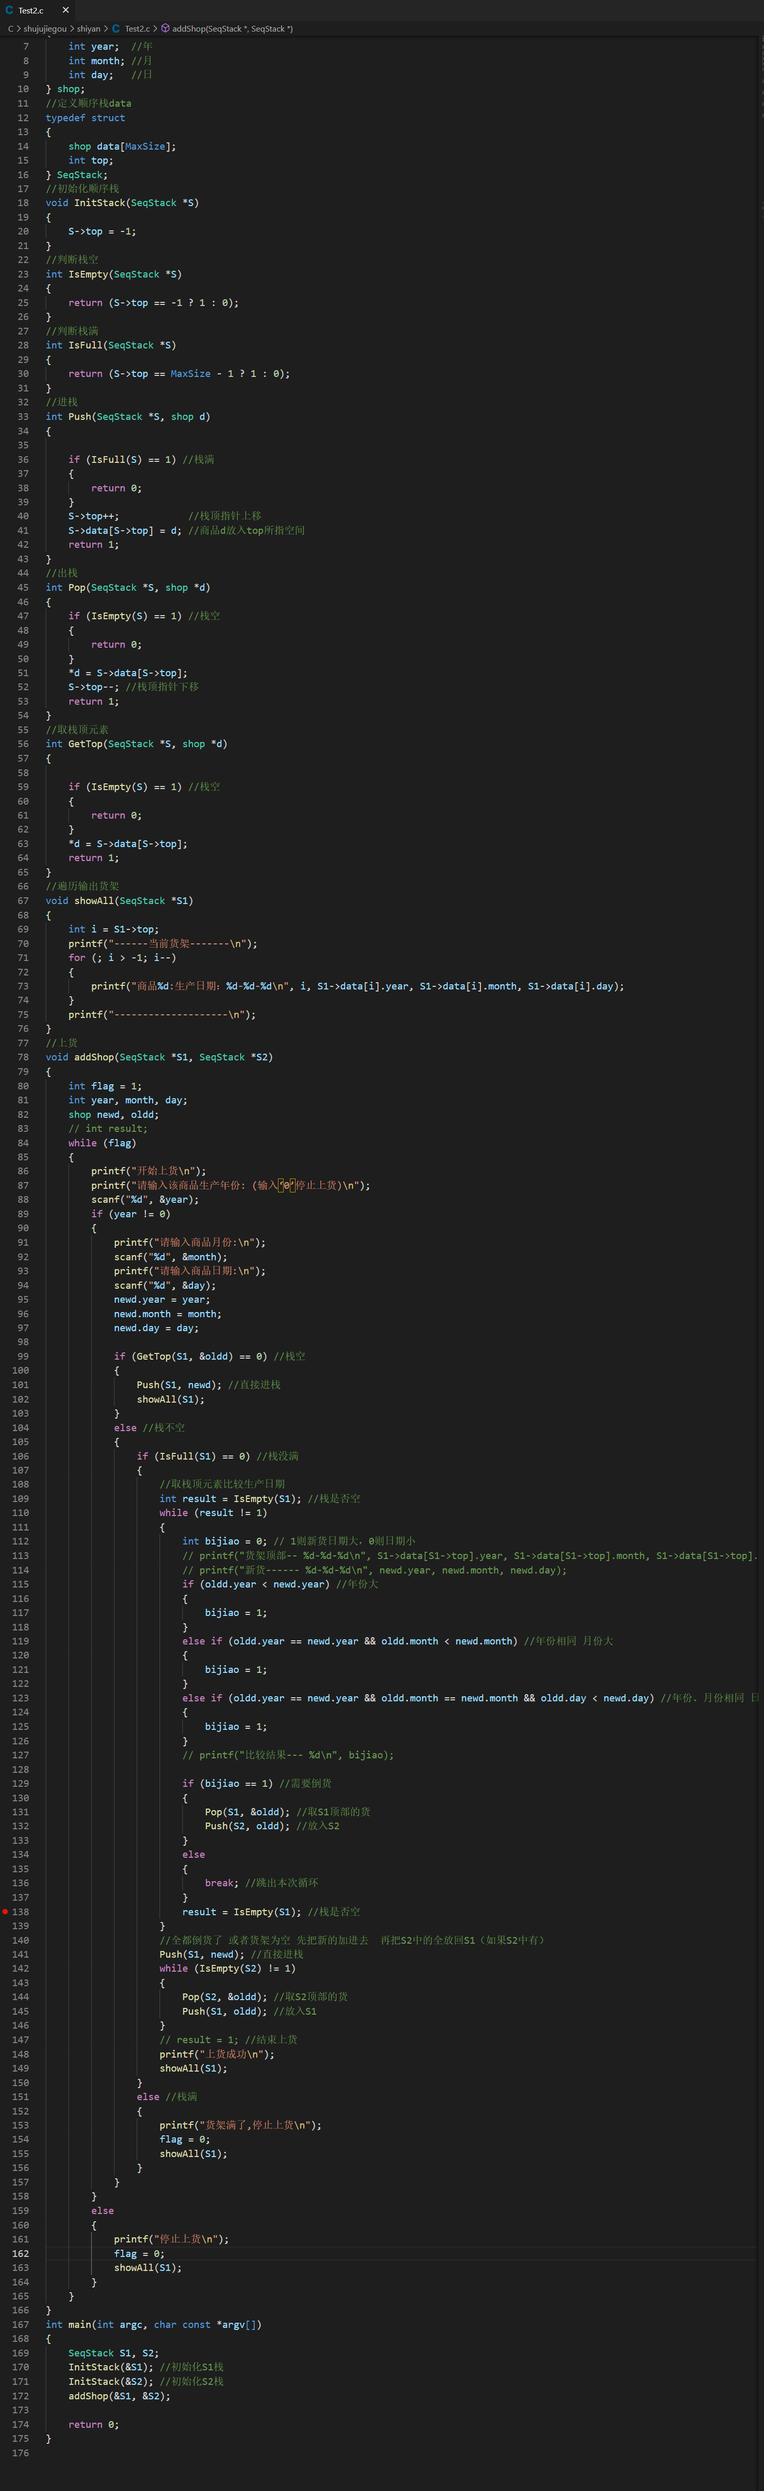
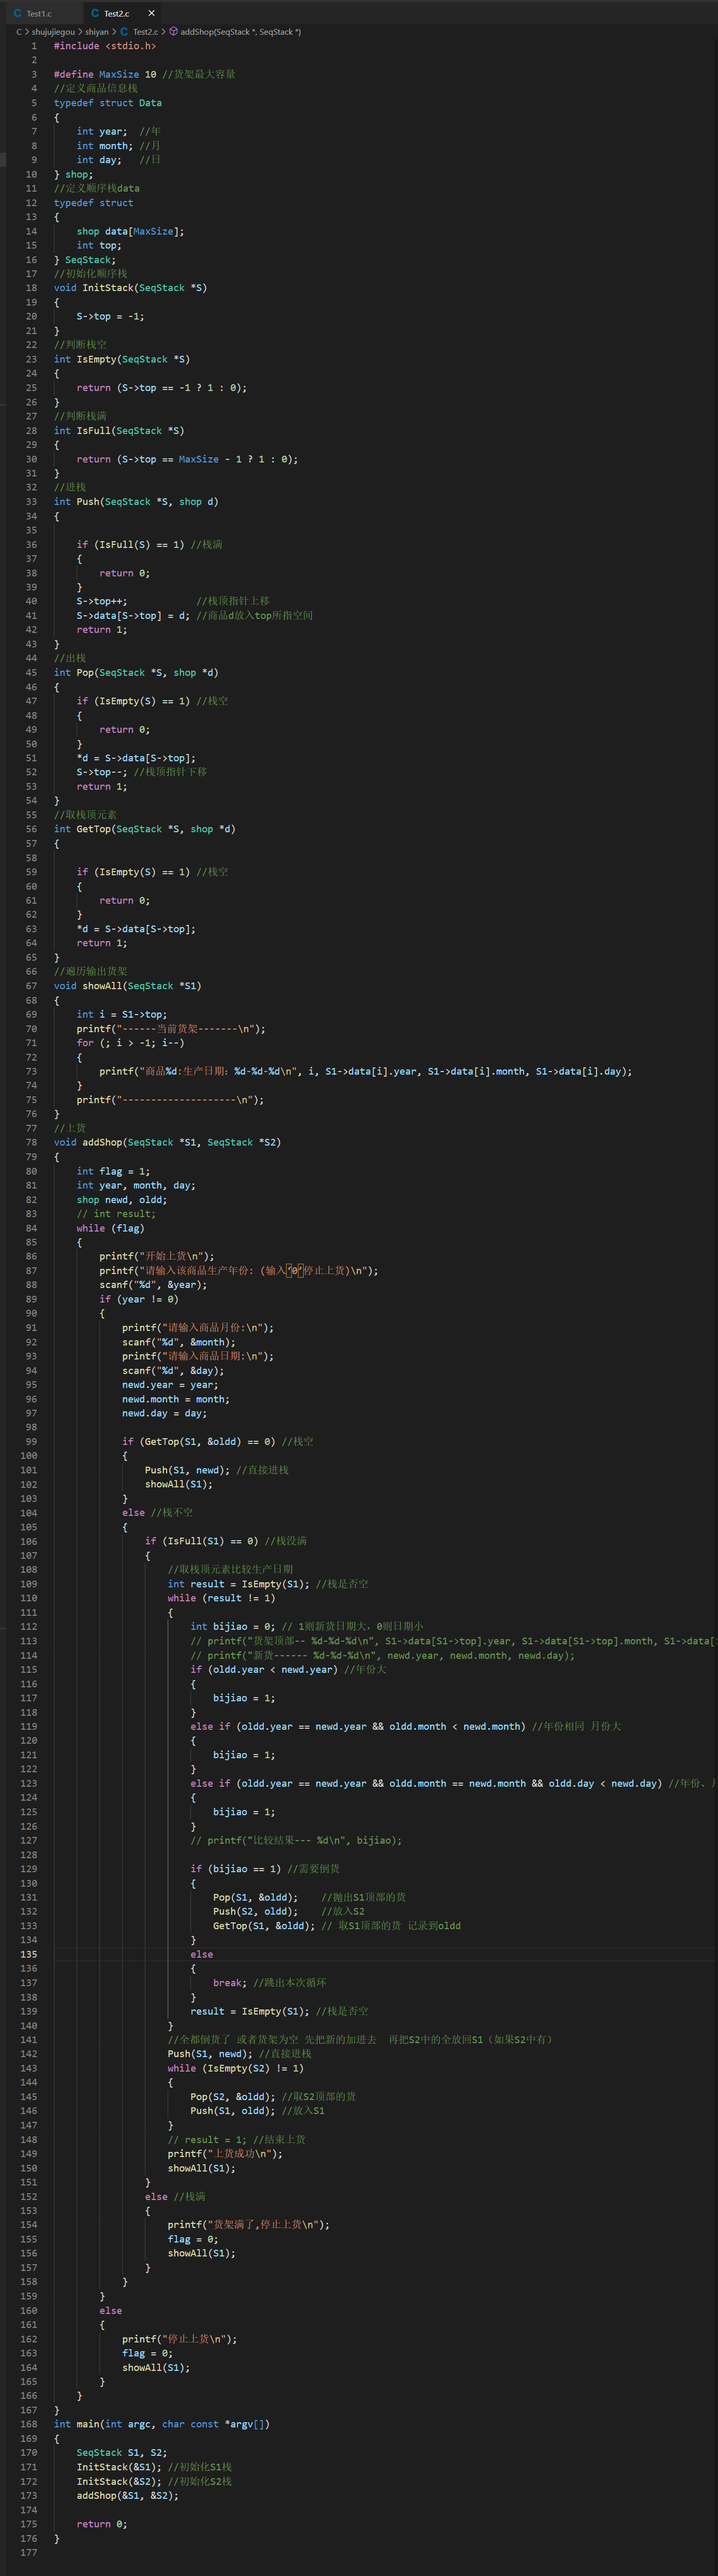
实验二(代码133行更新)

diff --git a/biji.html b/biji.html
@@ -17,7 +17,7 @@
 
         <ul>数据结构
             <li><a href="shujujiegou/shujujiegoushiyan1.html">实验一</a></li>
-            <li><a href="shujujiegou/shujujiegoushiyan2.html">实验二</a></li>
+            <li><a href="shujujiegou/shujujiegoushiyan2.html">实验二(代码133行更新)</a></li>
         </ul>
     </div>
 </body>
